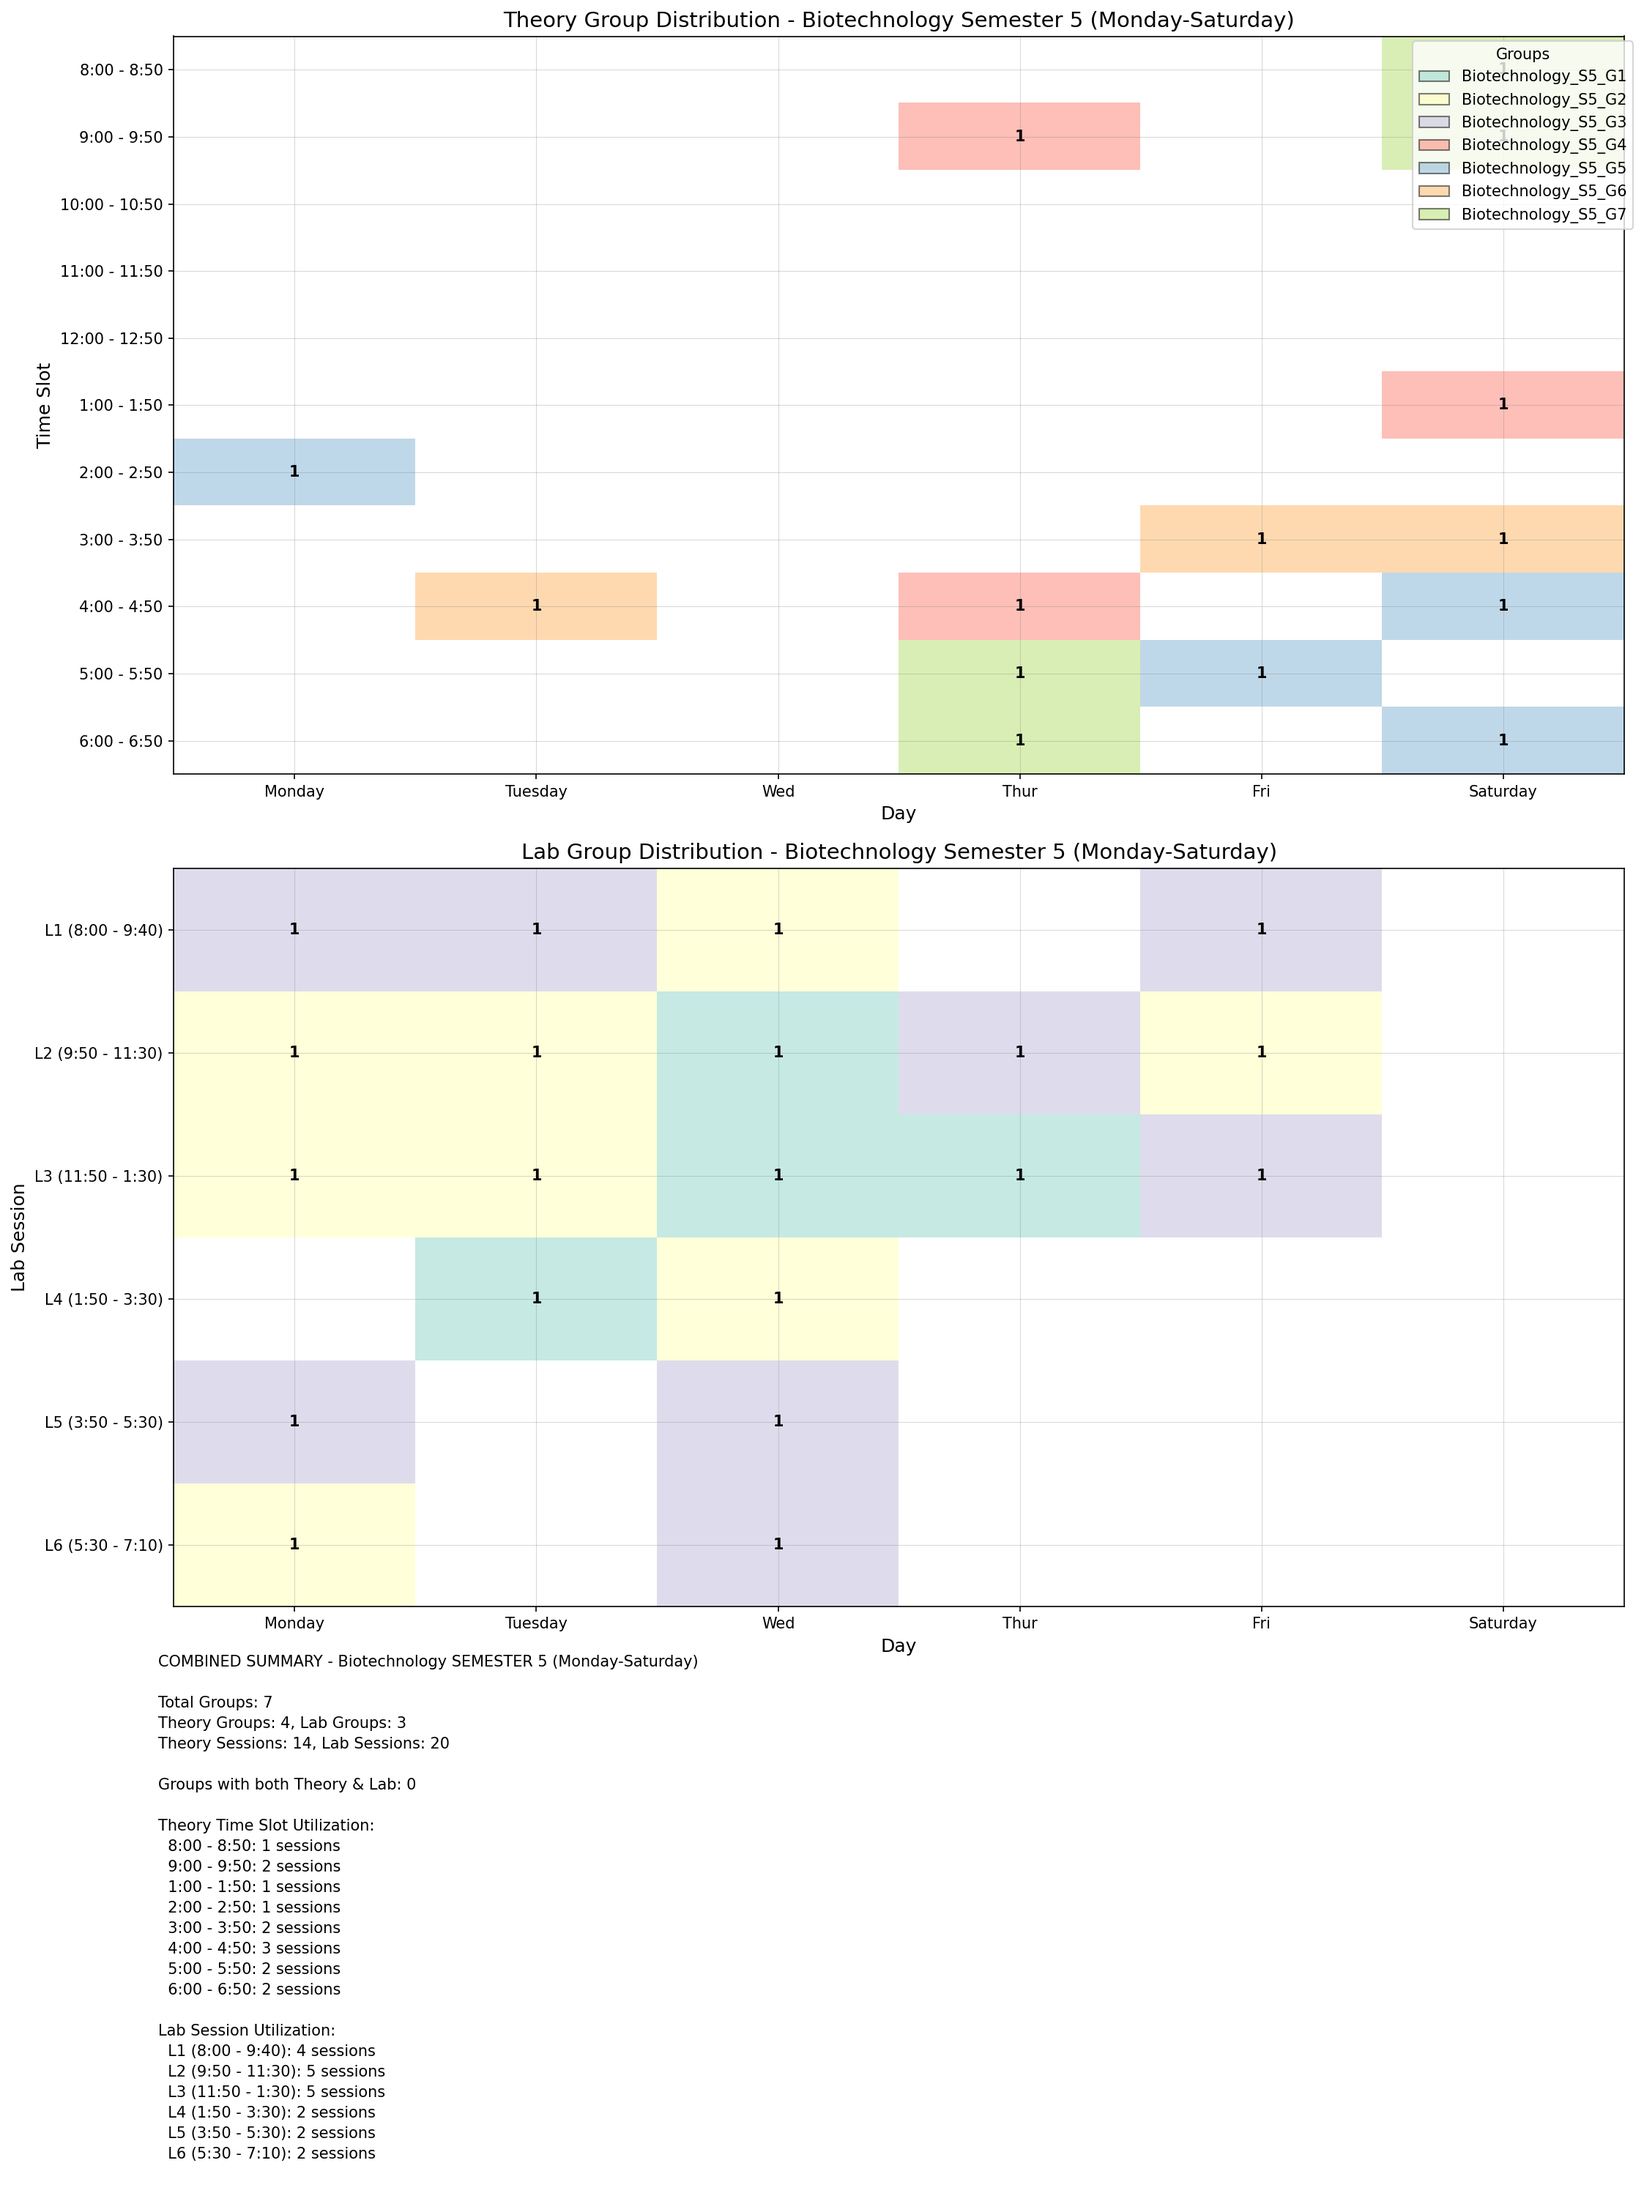
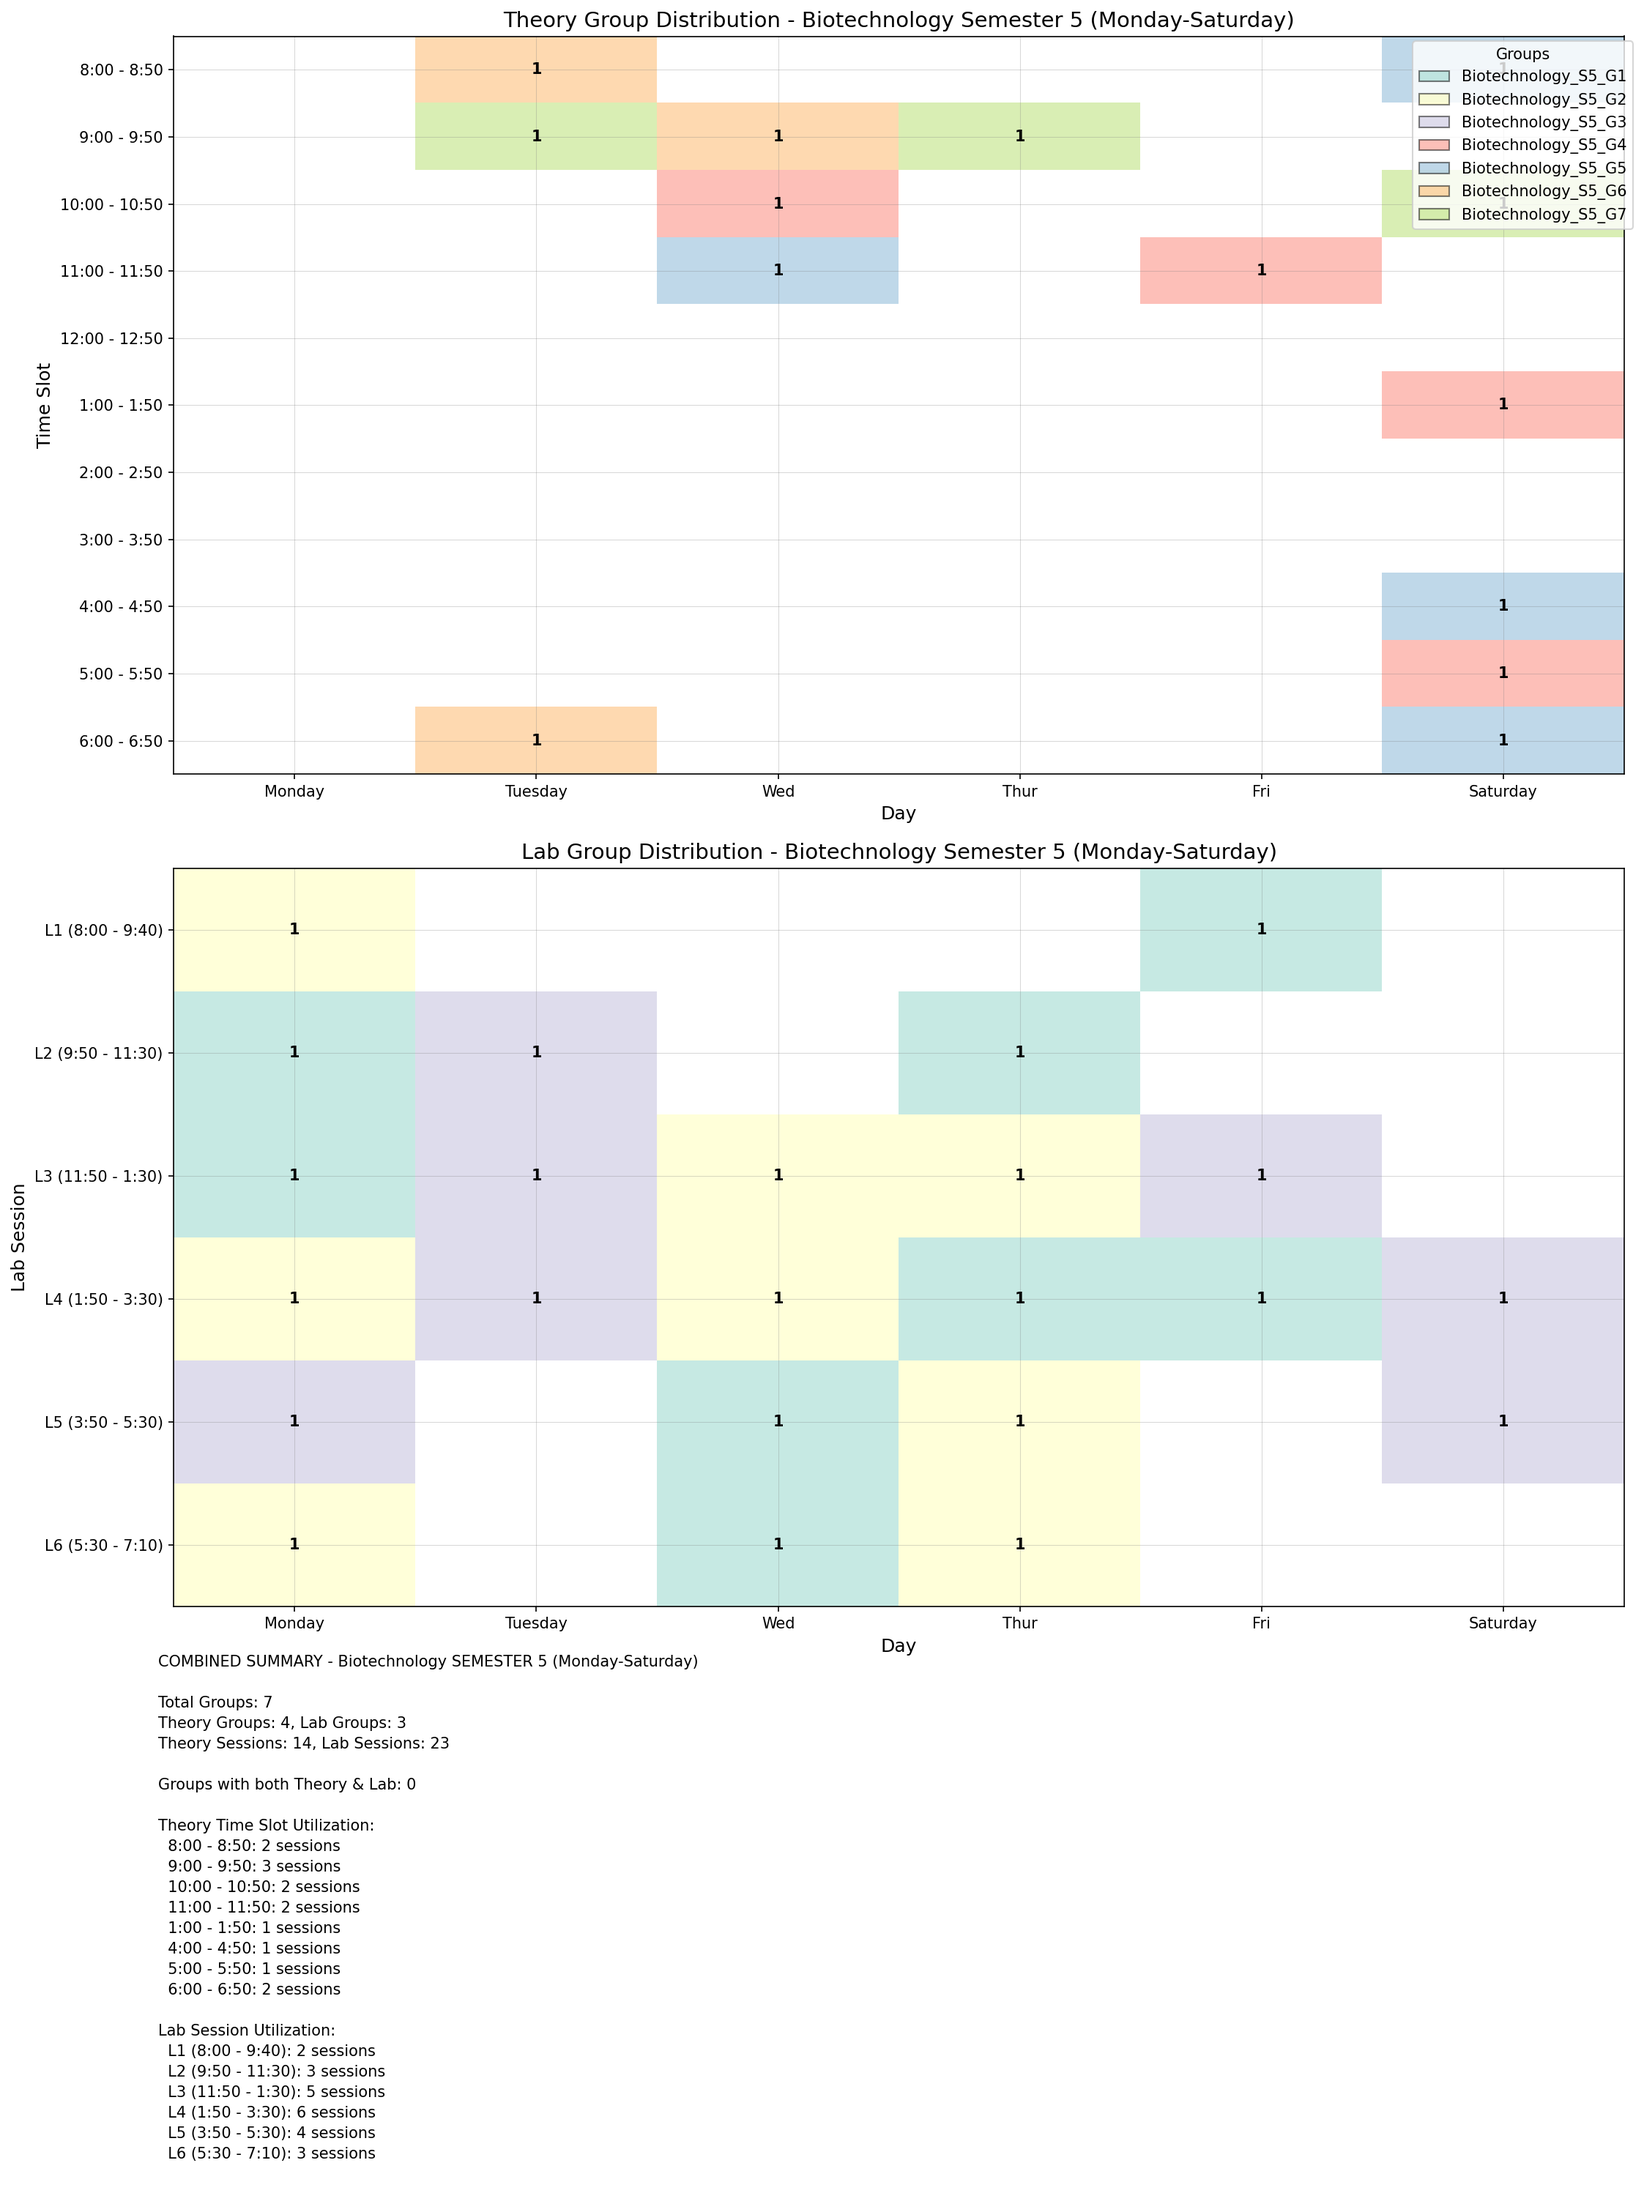
added theory penalty

diff --git a/src/combined_scheduler.py b/src/combined_scheduler.py
@@ -451,6 +451,10 @@ class CombinedScheduler:
                 'enabled': True,
                 'description': 'Single instance department with shift-based scheduling'
             },
+            'Computer Science & Engineering (Cyber Security)': {
+                'enabled': True,
+                'description': 'Single instance department with shift-based scheduling'
+            },
             'Aeronautical Engineering': {
                 'enabled': True,
                 'description': 'Single instance engineering department with shift-based time constraints'
@@ -2624,6 +2628,9 @@ class CombinedScheduler:
         # CONSTRAINT 6: Shift-based constraints for departments with single course instances
         constraints_applied += self.apply_shift_based_theory_constraint(model, group_timeslot_vars)
         
+        # CONSTRAINT 7: Early scheduling constraint - schedule all theory before 3:00 PM
+        constraints_applied += self._apply_early_scheduling_constraint(model, group_timeslot_vars)
+        
         self.logger.info(f"Applied {constraints_applied} theory-specific constraints with department-specific day patterns")
         return constraints_applied
 
@@ -2687,6 +2694,64 @@ class CombinedScheduler:
         
         self.logger.info(f"Created {len(self.consecutive_slot_penalties)} consecutive slot penalty variables")
         self.logger.info(f"Applied {constraints_applied} consecutive slot soft constraints")
+        return constraints_applied
+    
+    def _apply_early_scheduling_constraint(self, model, group_timeslot_vars):
+        """
+        Apply soft constraint to prefer scheduling theory sessions before 3:00 PM (time slot index 7).
+        Creates penalty variables for sessions scheduled at 3:00 PM or later that will be minimized 
+        in the objective function.
+        """
+        self.logger.info("Applying soft early scheduling constraint: prefer theory before 3:00 PM...")
+        constraints_applied = 0
+        
+        # Initialize penalty variables list if not exists
+        if not hasattr(self, 'late_scheduling_penalties'):
+            self.late_scheduling_penalties = []
+        
+        # Time slot index 7 corresponds to "3:00 - 3:50"
+        # We want to penalize scheduling in slots 7 and later (3:00 PM and after)
+        penalty_start_slot = 7  # "3:00 - 3:50" and later get penalties
+        
+        for group_name in group_timeslot_vars.keys():
+            # Get department-specific days for this group
+            dept_name = group_name.split('_S')[0] if '_S' in group_name else "Computer Science & Engineering"
+            
+            # Extract semester for semester-specific overrides
+            semester = None
+            if '_S' in group_name:
+                try:
+                    semester_part = group_name.split('_S')[1].split('_G')[0]
+                    semester = int(semester_part)
+                except (ValueError, IndexError):
+                    pass
+            
+            dept_days = self._get_days_for_department(dept_name, semester)
+            num_dept_days = len(dept_days)
+            
+            # Apply constraint for each day
+            for day_idx in range(num_dept_days):
+                if day_idx not in group_timeslot_vars[group_name]:
+                    continue
+                
+                # Create penalty for each late time slot (3:00 PM and after)
+                for slot_idx in range(penalty_start_slot, self.num_theory_slots):
+                    if slot_idx in group_timeslot_vars[group_name][day_idx]:
+                        # Create a penalty variable that equals 1 if this late slot is assigned
+                        penalty_var = model.NewBoolVar(f'late_penalty_{group_name}_day_{day_idx}_slot_{slot_idx}')
+                        
+                        # Penalty variable equals the assignment variable for this late slot
+                        # If the slot is assigned (=1), penalty = 1; if not assigned (=0), penalty = 0
+                        model.Add(penalty_var == group_timeslot_vars[group_name][day_idx][slot_idx])
+                        
+                        # Add to penalties list to be minimized in objective
+                        self.late_scheduling_penalties.append(penalty_var)
+                        constraints_applied += 1
+                        
+                        self.logger.debug(f"Added late scheduling penalty for {group_name} day {day_idx} slot {slot_idx} ({self.theory_time_slots[slot_idx]})")
+        
+        self.logger.info(f"Created {len(self.late_scheduling_penalties)} late scheduling penalty variables")
+        self.logger.info(f"Applied {constraints_applied} soft early scheduling constraints")
         return constraints_applied
     
     def _apply_proper_theory_room_capacity_constraint(self, model, group_timeslot_vars):
@@ -3266,6 +3331,15 @@ class CombinedScheduler:
             self.logger.info(f"Added {len(self.consecutive_slot_penalties)} consecutive slot penalty terms (weight: {penalty_weight})")
             self.logger.info("  • Discourages groups from having more than 2 consecutive time slots")
         
+        # Add penalty for late scheduling (soft constraint - prefer early scheduling)
+        if hasattr(self, 'late_scheduling_penalties') and self.late_scheduling_penalties:
+            # Subtract penalties (since we're maximizing, subtracting penalties minimizes them)
+            late_penalty_weight = 150  # Higher weight than consecutive slots - early scheduling is important
+            for penalty_var in self.late_scheduling_penalties:
+                objective_terms.append(-late_penalty_weight * penalty_var)
+            self.logger.info(f"Added {len(self.late_scheduling_penalties)} late scheduling penalty terms (weight: {late_penalty_weight})")
+            self.logger.info("  • Strongly discourages theory sessions scheduled at 3:00 PM or later")
+        
         # Add penalty for core lab groups exceeding 8 slots (soft constraint - minimize penalties)
         if hasattr(self, 'core_lab_group_slot_penalties') and self.core_lab_group_slot_penalties:
             # Subtract penalties (since we're maximizing, subtracting penalties minimizes them)
@@ -3311,10 +3385,11 @@ class CombinedScheduler:
             self.logger.info("  2. Group timeslots (no time slot preference)")
             self.logger.info("  3. Room capacity optimization (prefer appropriate room sizes)")
             self.logger.info("  4. Consecutive slot penalty (avoid >2 consecutive slots per group per day)")
-            self.logger.info("  5. Core lab group slot penalty (prefer ≤8 slots for groups with core labs)")
-            self.logger.info("  6. Computing group slot penalty (prefer ≤6 slots for computing department groups)")
-            self.logger.info("  7. Consecutive batch preference (encourage consecutive batched lab sessions)")
-            self.logger.info("  8. Shift-based scheduling penalty (encourage consistent shift patterns for single-instance departments)")
+            self.logger.info("  5. Late scheduling penalty (strongly prefer theory before 3:00 PM)")
+            self.logger.info("  6. Core lab group slot penalty (prefer ≤8 slots for groups with core labs)")
+            self.logger.info("  7. Computing group slot penalty (prefer ≤6 slots for computing department groups)")
+            self.logger.info("  8. Consecutive batch preference (encourage consecutive batched lab sessions)")
+            self.logger.info("  9. Shift-based scheduling penalty (encourage consistent shift patterns for single-instance departments)")
         else:
             self.logger.warning("No objective terms created for group allocation")
     
@@ -3322,11 +3397,11 @@ class CombinedScheduler:
         """Solve the combined scheduling model using two-phase approach."""
         # Create the solver
         solver = cp_model.CpSolver()
-        solver.parameters.max_time_in_seconds = 1000
+        solver.parameters.max_time_in_seconds = 300
         solver.parameters.num_search_workers = 16
         solver.parameters.max_memory_in_mb = 30000
         solver.parameters.log_search_progress = True
-        solver.parameters.stop_after_first_solution= True
+        # solver.parameters.stop_after_first_solution= True
         
         self.logger.info("Solving combined scheduling model...")
         status = solver.Solve(model)
